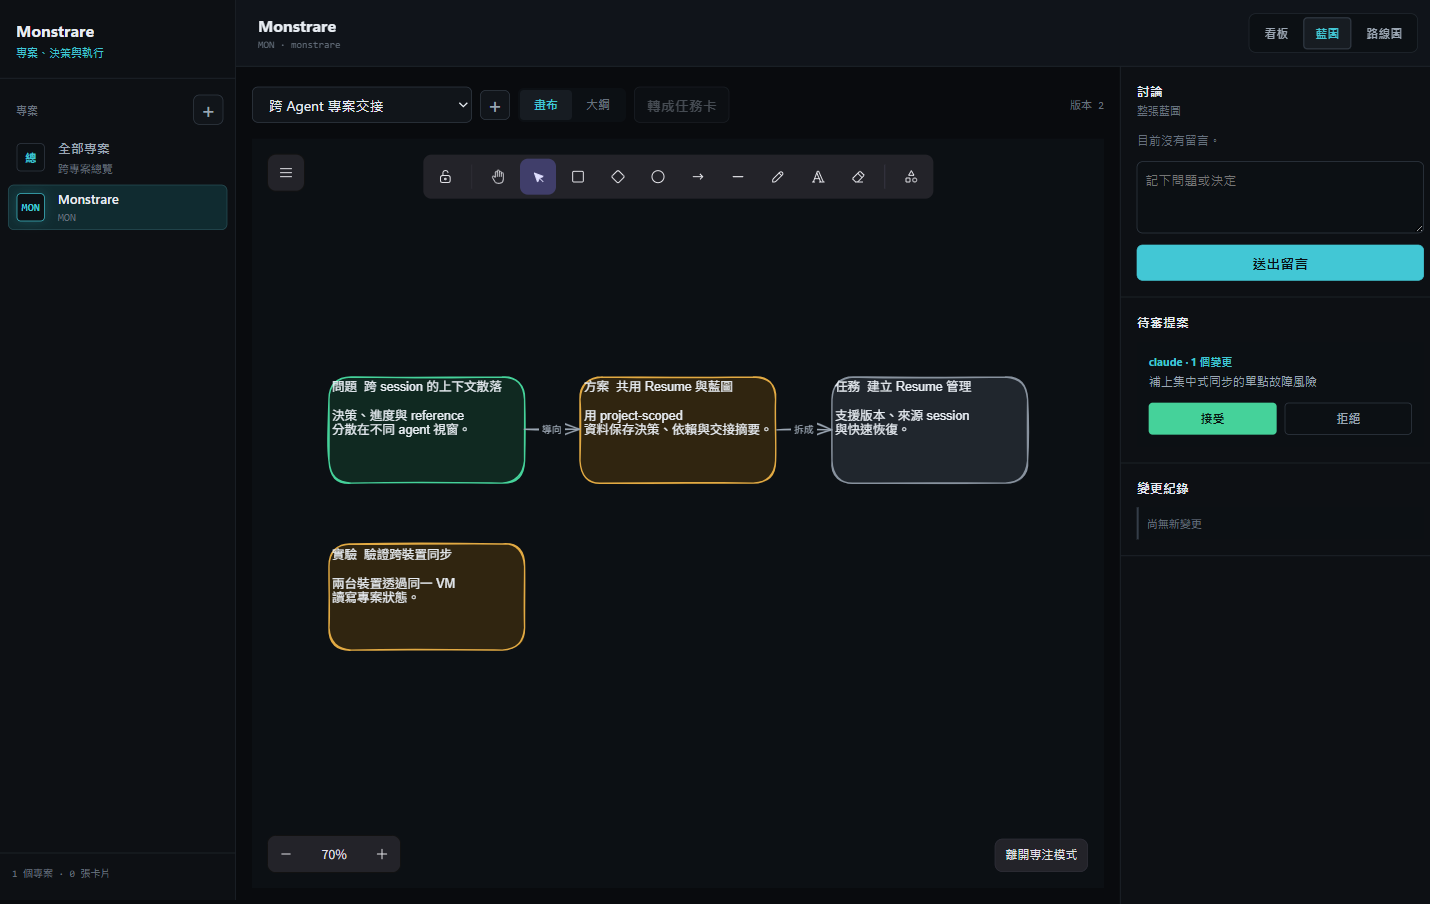
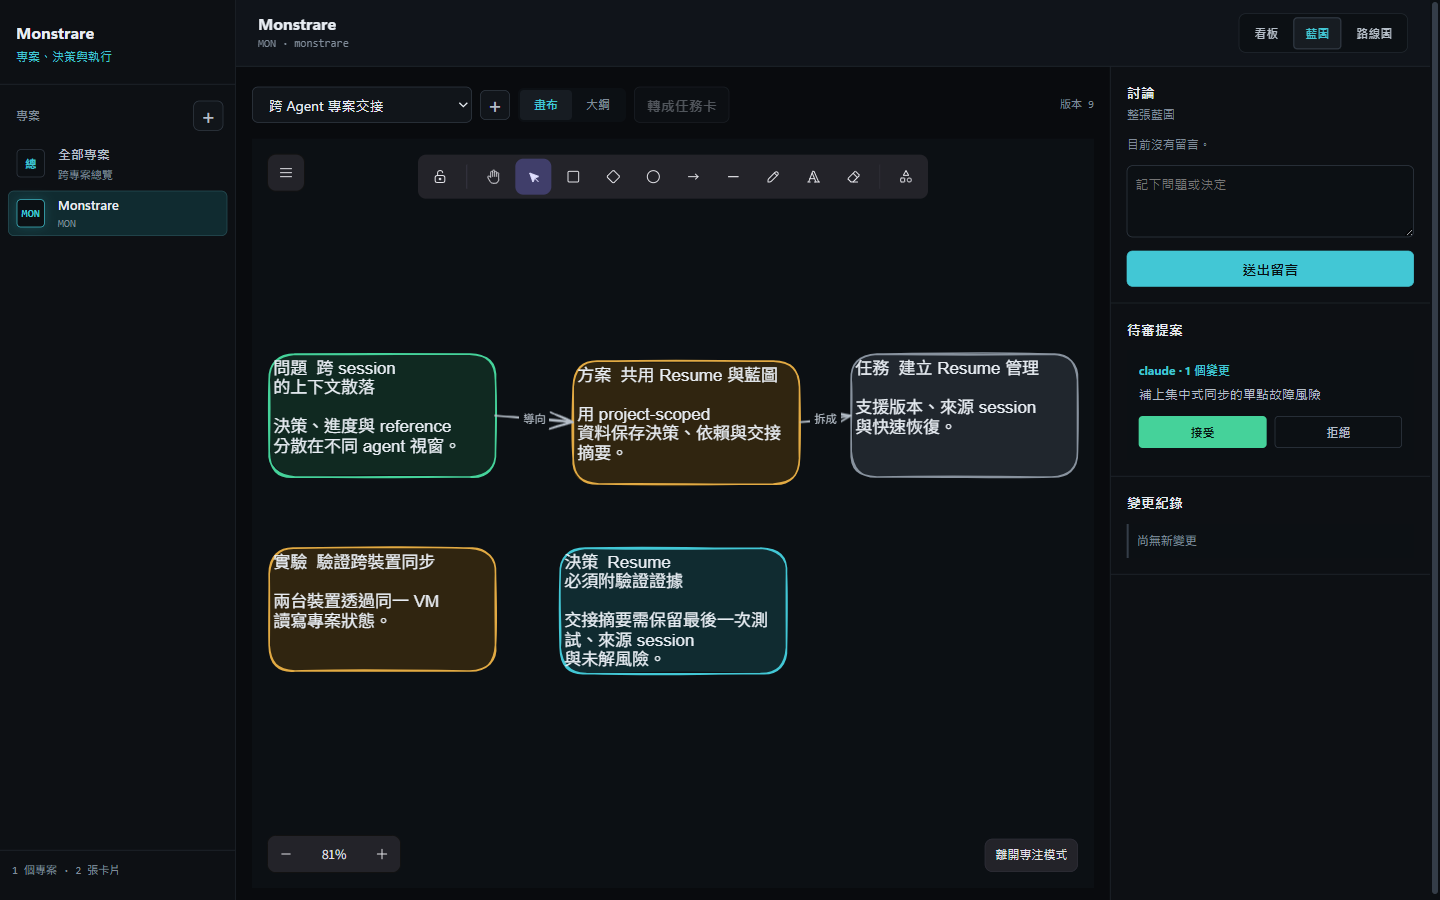
Improve kanban typography readability

diff --git a/tools/kanban/index.html b/tools/kanban/index.html
@@ -12,8 +12,8 @@
     --surface-raised: #171c22;
     --surface-sunken: #0c1014;
     --ink: #e8edf3;
-    --ink-dim: #9ba6b3;
-    --ink-faint: #66717e;
+    --ink-dim: #b5bec8;
+    --ink-faint: #7f8b99;
     --line: #232a32;
     --line-strong: #343d48;
     --accent: #42c7d5;
@@ -29,7 +29,7 @@
     --shadow-card: 0 1px 2px rgba(0, 0, 0, 0.3);
     --shadow-card-hover: 0 8px 24px rgba(0, 0, 0, 0.42), 0 0 0 1px rgba(66, 199, 213, 0.2);
     --shadow-modal: 0 28px 80px rgba(0, 0, 0, 0.62);
-    --font-ui: "Segoe UI Variable Text", "Aptos", "Segoe UI", "PingFang TC", "Microsoft JhengHei", sans-serif;
+    --font-ui: "Segoe UI Variable Text", "Microsoft JhengHei UI", "Microsoft JhengHei", "PingFang TC", "Noto Sans TC", "Segoe UI", sans-serif;
     --font-mono: ui-monospace, SFMono-Regular, "SF Mono", Menlo, Consolas, "Liberation Mono", monospace;
   }
 
@@ -38,10 +38,11 @@
   body {
     font-family: var(--font-ui);
     font-size: 14px;
+    line-height: 1.5;
+    font-synthesis: none;
     color: var(--ink);
     background: var(--paper);
     min-height: 100vh;
-    -webkit-font-smoothing: antialiased;
   }
   .app-shell { min-height: 100vh; display: grid; grid-template-columns: 236px minmax(0, 1fr); }
   .workspace { min-width: 0; }
@@ -61,9 +62,9 @@
   .sidebar { position: sticky; top: 0; height: 100vh; z-index: 30; display: flex; flex-direction: column; background: #0d1014; border-right: 1px solid var(--line); overflow: hidden; }
   .sidebar-brand { padding: 20px 16px 18px; border-bottom: 1px solid var(--line); }
   .brand-name { display: block; font-size: 16px; font-weight: 700; letter-spacing: 0; }
-  .brand-sub { display: block; margin-top: 4px; font-size: 11px; color: var(--accent); letter-spacing: 0; }
+  .brand-sub { display: block; margin-top: 4px; font-size: 12px; color: var(--accent); letter-spacing: 0; }
   .sidebar-section-head { display: flex; align-items: center; justify-content: space-between; padding: 16px 12px 8px 16px; }
-  .sidebar-label { font-size: 11px; font-weight: 700; color: var(--ink-faint); letter-spacing: 0; }
+  .sidebar-label { font-size: 12px; font-weight: 700; color: var(--ink-faint); letter-spacing: 0; }
   .project-nav { flex: 1; padding: 0 8px; overflow-y: auto; display: flex; flex-direction: column; gap: 3px; }
   .project-nav-item { width: 100%; min-height: 42px; border: 1px solid transparent; border-radius: 6px; background: transparent; color: var(--ink-dim); display: grid; grid-template-columns: 32px minmax(0, 1fr); align-items: center; gap: 9px; padding: 5px 8px; text-align: left; }
   .project-nav-item:hover { color: var(--ink); background: var(--surface-raised); }
@@ -74,7 +75,7 @@
   .project-nav-name { display: block; overflow: hidden; text-overflow: ellipsis; white-space: nowrap; font-size: 13px; font-weight: 600; }
   .project-nav-prefix { display: block; margin-top: 4px; font-family: var(--font-mono); font-size: 11px; color: var(--ink-faint); }
   .sidebar-footer { margin-top: auto; padding: 12px; border-top: 1px solid var(--line); }
-  .project-status { display: block; color: var(--ink-faint); font-family: var(--font-mono); font-size: 10px; margin-bottom: 9px; }
+  .project-status { display: block; color: var(--ink-faint); font-family: var(--font-mono); font-size: 11px; margin-bottom: 9px; }
   .project-form { display: flex; flex-direction: column; gap: 6px; padding: 8px; margin: 4px 8px 8px; border: 1px solid var(--line); border-radius: 7px; background: var(--surface-sunken); }
   .project-form input, .auth-control input { width: 100%; height: 32px; border: 1px solid var(--line-strong); border-radius: 5px; background: var(--paper); padding: 0 9px; }
   .project-form .prefix-input { text-transform: uppercase; }
@@ -90,7 +91,7 @@
   .topbar-row1 { min-height: 66px; display: flex; align-items: center; justify-content: space-between; padding: 10px 22px; gap: 16px; }
   .active-context { min-width: 0; }
   .active-project-name { font-size: 16px; font-weight: 700; line-height: 1.25; overflow: hidden; text-overflow: ellipsis; white-space: nowrap; }
-  .active-project-meta { margin-top: 3px; font-family: var(--font-mono); font-size: 10px; color: var(--ink-faint); }
+  .active-project-meta { margin-top: 3px; font-family: var(--font-mono); font-size: 11px; color: var(--ink-faint); }
 
   .view-tabs { display: flex; gap: 3px; background: var(--surface-sunken); border: 1px solid var(--line); border-radius: 7px; padding: 3px; }
   .view-tabs button { border: none; background: transparent; color: var(--ink-dim); font-size: 12px; font-weight: 600; padding: 8px 12px; border-radius: 4px; transition: background-color .15s ease, color .15s ease; }
@@ -100,7 +101,7 @@
   .view.is-active { display: block; }
 
   /* ── pills ── */
-  .pill { display: inline-flex; align-items: center; gap: 4px; font-size: 11px; font-weight: 700; letter-spacing: 0; padding: 2px 8px; border-radius: 999px; white-space: nowrap; }
+  .pill { display: inline-flex; align-items: center; gap: 4px; font-size: 12px; font-weight: 700; letter-spacing: 0; padding: 2px 8px; border-radius: 999px; white-space: nowrap; }
   .risk-low { background: var(--muted-soft); color: var(--muted); }
   .risk-medium { background: var(--warn-soft); color: var(--warn); }
   .risk-high { background: var(--crit-soft); color: var(--crit); }
@@ -123,10 +124,10 @@
   .ticket-card::before { content: ""; position: absolute; left: 0; top: 8px; bottom: 8px; width: 3px; border-radius: 3px; }
   .ticket-card:hover { box-shadow: var(--shadow-card-hover); transform: translateY(-1px); }
   .ticket-card.is-dragging { opacity: 0.4; }
-  .ticket-id { font-size: 10px; color: var(--ink-faint); font-weight: 600; letter-spacing: 0; }
-  .ticket-title { font-size: 14px; font-weight: 600; line-height: 1.5; margin: 4px 0 12px; }
+  .ticket-id { font-size: 11px; color: var(--ink-faint); font-weight: 600; letter-spacing: 0; }
+  .ticket-title { font-size: 15px; font-weight: 600; line-height: 1.5; margin: 4px 0 12px; }
   .ticket-badges { display: flex; flex-wrap: wrap; gap: 5px; margin-bottom: 8px; }
-  .ticket-meta-row { display: flex; align-items: center; justify-content: space-between; font-size: 12px; color: var(--ink-faint); }
+  .ticket-meta-row { display: flex; align-items: center; justify-content: space-between; font-size: 13px; color: var(--ink-faint); }
 
   @media (prefers-reduced-motion: reduce) { .ticket-card, .modal, .modal-overlay { transition: none !important; } }
 
@@ -136,8 +137,8 @@
   .lane.is-drag-over { background: var(--accent-soft); }
   .lane-head { position: sticky; top: 0; padding: 14px 14px 12px; border-bottom: 1px solid var(--line); background: #0c0f13; z-index: 1; }
   .lane-title-row { display: flex; align-items: center; justify-content: space-between; gap: 6px; }
-  .lane-title { font-size: 13px; font-weight: 600; }
-  .lane-gauge { font-size: 11px; font-weight: 700; padding: 1px 7px; border-radius: 999px; background: var(--surface-sunken); color: var(--ink-dim); flex-shrink: 0; }
+  .lane-title { font-size: 14px; font-weight: 600; }
+  .lane-gauge { font-size: 12px; font-weight: 700; padding: 1px 7px; border-radius: 999px; background: var(--surface-sunken); color: var(--ink-dim); flex-shrink: 0; }
   .lane-gauge.is-over { background: var(--crit); color: #fff; }
   .lane-body { padding: 12px; display: flex; flex-direction: column; gap: 10px; flex: 1; }
   .lane-empty { font-size: 12px; color: var(--ink-faint); padding: 12px 4px; }
@@ -255,23 +256,23 @@
   .blueprint-edge-relation { color: var(--warn); }
   .blueprint-inspector { border-left: 1px solid var(--line); background: #0d1014; overflow-y: auto; }
   .blueprint-panel { padding: 16px; border-bottom: 1px solid var(--line); }
-  .blueprint-panel-title { font-size: 13px; line-height: 1.25; }
-  .blueprint-panel-context { margin-top: 4px; color: var(--ink-faint); font-size: 11px; line-height: 1.5; }
+  .blueprint-panel-title { font-size: 14px; line-height: 1.35; }
+  .blueprint-panel-context { margin-top: 4px; color: var(--ink-faint); font-size: 12px; line-height: 1.5; }
   .blueprint-stream-list, .blueprint-discussion-list, .blueprint-proposal-list { margin-top: 12px; display: flex; flex-direction: column; gap: 8px; }
   .blueprint-event { border-left: 2px solid var(--line-strong); padding: 8px; background: var(--surface-sunken); }
   .blueprint-event.is-live { border-left-color: var(--accent); }
-  .blueprint-event-meta { font-family: var(--font-mono); font-size: 11px; color: var(--ink-faint); }
-  .blueprint-event-message { margin-top: 4px; color: var(--ink-dim); font-size: 12px; line-height: 1.5; }
+  .blueprint-event-meta { font-family: var(--font-mono); font-size: 12px; color: var(--ink-faint); }
+  .blueprint-event-message { margin-top: 4px; color: var(--ink-dim); font-size: 13px; line-height: 1.55; }
   .blueprint-empty { position: absolute; inset: 0; display: grid; place-items: center; color: var(--ink-faint); font-size: 13px; }
   .blueprint-discussion { padding: 8px; background: var(--surface-sunken); }
-  .blueprint-discussion-author { font-size: 11px; font-weight: 700; color: var(--ink-dim); }
+  .blueprint-discussion-author { font-size: 12px; font-weight: 700; color: var(--ink-dim); }
   .blueprint-discussion-text { margin-top: 4px; font-size: 12px; line-height: 1.6; color: var(--ink); white-space: pre-wrap; }
   .blueprint-discussion-form { margin-top: 12px; }
   .blueprint-discussion-form textarea { width: 100%; min-height: 72px; resize: vertical; border: 1px solid var(--line-strong); border-radius: 6px; background: var(--surface-sunken); padding: 8px; font-size: 13px; line-height: 1.5; }
   .blueprint-discussion-form .toolbar-btn { width: 100%; margin-top: 8px; }
   .blueprint-proposal { padding: 12px; background: var(--surface-sunken); }
-  .blueprint-proposal-agent { font-size: 11px; font-weight: 700; color: var(--accent); }
-  .blueprint-proposal-message { margin-top: 4px; font-size: 12px; line-height: 1.5; color: var(--ink-dim); }
+  .blueprint-proposal-agent { font-size: 12px; font-weight: 700; color: var(--accent); }
+  .blueprint-proposal-message { margin-top: 4px; font-size: 13px; line-height: 1.55; color: var(--ink-dim); }
   .blueprint-proposal-actions { display: grid; grid-template-columns: 1fr 1fr; gap: 8px; margin-top: 12px; }
   .blueprint-proposal-actions button { height: 32px; border-radius: 4px; font-size: 12px; font-weight: 700; }
   .proposal-accept { border: 0; background: var(--good); color: #07130f; }

diff --git a/tools/kanban/blueprint-canvas.jsx b/tools/kanban/blueprint-canvas.jsx
@@ -35,7 +35,7 @@ const STATUS_COLORS = {
 function defaultLayout(index) {
   const column = index % 3;
   const row = Math.floor(index / 3);
-  return { x: 80 + column * 360, y: 80 + row * 240, w: 280, h: 152 };
+  return { x: 80 + column * 390, y: 80 + row * 260, w: 300, h: 168 };
 }
 
 function nodeElementId(nodeId) {
@@ -51,7 +51,7 @@ function documentToElements(document) {
     const layout = node.layout || defaultLayout(index);
     layoutById.set(node.id, layout);
     const colors = STATUS_COLORS[node.status] || STATUS_COLORS.draft;
-    const body = node.body ? "\n\n" + node.body.slice(0, 180) : "";
+    const body = node.body ? "\n\n" + node.body.slice(0, 120) : "";
     return {
       id: nodeElementId(node.id),
       type: "rectangle",
@@ -67,7 +67,7 @@ function documentToElements(document) {
       roundness: { type: 3 },
       label: {
         text: (TYPE_LABELS[node.type] || node.type) + "  " + node.title + body,
-        fontSize: 18,
+        fontSize: 21,
         fontFamily: 2,
         textAlign: "left",
         verticalAlign: "top",
@@ -87,7 +87,7 @@ function documentToElements(document) {
       x,
       y,
       points: [[0, 0], [to.x - x, to.y + to.h / 2 - y]],
-      strokeColor: "#9ba6b3",
+      strokeColor: "#b5bec8",
       strokeWidth: 2,
       roughness: 1,
       startBinding: { elementId: nodeElementId(edge.from), focus: 0, gap: 8 },
@@ -112,12 +112,19 @@ function BlueprintCanvas() {
 
   function fitScene(nextElements = elements) {
     if (!apiRef.current || !nextElements.length) return;
+    const nodeElements = nextElements.filter(
+      (element) => element.type === "rectangle" && element.id.startsWith("bp_node_"),
+    );
+    const compact = rootElement.clientWidth < 600;
+    const focusElements = compact && nodeElements.length
+      ? nodeElements.slice(0, 1)
+      : nextElements;
     apiRef.current.updateScene({
       appState: { theme: "dark", viewBackgroundColor: "#0c1014", zenModeEnabled: true },
     });
-    apiRef.current.scrollToContent(nextElements, {
+    apiRef.current.scrollToContent(focusElements, {
       fitToViewport: true,
-      viewportZoomFactor: 0.82,
+      viewportZoomFactor: compact ? 0.9 : 0.96,
       animate: false,
     });
   }

diff --git a/ai/context/design-system.md b/ai/context/design-system.md
@@ -17,7 +17,8 @@
 
 - 選定的 style tile：Dark Operations
 - 色彩情緒：接近黑色的中性底色，cyan 作主要互動提示，綠／黃／紅只表達狀態。
-- 字體個性：系統 UI 字體，短標籤清楚、長內容可讀；不使用裝飾性 display font。
+- 字體個性：Segoe UI Variable Text 搭配 Microsoft JhengHei UI 繁中 fallback；
+  不合成缺少的字重，短標籤清楚、長內容可讀。
 - 圓角／陰影傾向：4-8px 小圓角、細邊界；陰影只用在可互動卡片 hover 與 modal。
 - 密度：舒適但可掃讀；Kanban lane 固定 282px，卡片內距 14-17px。
 - 亮／暗模式：暗色模式。
@@ -31,9 +32,9 @@
 | 類別 | Token | 值 | 備註 |
 |---|---|---|---|
 | 色彩 | paper / surface / raised / sunken | `#090b0e` / `#11151a` / `#171c22` / `#0c1014` | 四層中性背景 |
-| 色彩 | ink / ink-dim / ink-faint | `#e8edf3` / `#9ba6b3` / `#66717e` | 三層文字 |
+| 色彩 | ink / ink-dim / ink-faint | `#e8edf3` / `#b5bec8` / `#7f8b99` | 三層文字；暗色底維持可讀對比 |
 | 色彩 | accent / good / warn / crit | `#42c7d5` / `#45d29a` / `#e2aa43` / `#f06870` | 動作與語意狀態 |
-| 字級 | type scale | `10, 11, 12, 13, 16, 18px` | 介面文字，不隨 viewport 縮放 |
+| 字級 | type scale | `11, 12, 13, 14, 15, 16, 18, 21px` | DOM 不低於 11px；canvas node 21px |
 | 字重／行高 | regular / semibold / bold | `400 / 600 / 700`; 內文 `1.5-1.6` | |
 | 間距 | spacing scale | `4, 8, 12, 16, 20, 24, 32px` | 以 4px 為基準 |
 | 圓角 | radius | `4, 6, 8px`; pill `999px` | panel 不做浮動大圓角 |

diff --git a/ai/artifacts/Blueprint 工作區/verification/blueprint-workbench.md b/ai/artifacts/Blueprint 工作區/verification/blueprint-workbench.md
@@ -10,10 +10,10 @@
 
 | 指令 | 結果 | 備註 |
 |---|---|---|
-| `npm test` | 通過，30/30 | Windows Node 24.12；contract / API / frontend checks |
+| `npm test` | 通過，32/32 | Windows contract / API / typography checks |
 | `npm audit --audit-level=moderate` | 通過 | 0 vulnerabilities |
-| WSL Ubuntu `npm ci && npm test` | 通過，30/30 | 隔離 Linux node_modules，Node 24.12 |
-| Playwright browser flow | 通過 | 留言、accept proposal、materialize、claim；console 0 errors |
+| WSL Ubuntu `npm test` | 通過，32/32 | 隔離 Linux node_modules，Node 24.12 |
+| Playwright browser flow | 通過 | desktop/mobile typography 與 overflow；console 0 errors |
 
 ## UI 證據
 
@@ -29,6 +29,8 @@
 | Excalidraw dark canvas 被 library filter 反相 | 高 | 已以 scoped CSS 修正 |
 | 未綁定的 edge 初始落在左上角 | 高 | 已改由 node layout 計算端點 |
 | 手機 toolbar 與 inspector 原本過密 | 中 | 已於 760px breakpoint 重排 |
+| Canvas 全圖 fit 使 mobile 文字縮成不可讀尺寸 | 高 | mobile 改為單節點初始 focus |
+| 10px metadata 與低對比 faint text 顯得模糊 | 中 | 最低 11px 並提高 dim/faint 對比 |
 
 ## 殘留風險
 

diff --git a/ai/artifacts/Blueprint 工作區/screen-spec-藍圖工作區.md b/ai/artifacts/Blueprint 工作區/screen-spec-藍圖工作區.md
@@ -28,7 +28,7 @@
 | 錯誤 | toast 顯示 API 錯誤，不覆蓋工作內容 | 使用 server 回傳訊息 | API / Browser |
 | 停用 | 未選 task/experiment 時停用「轉成任務卡」 | 不額外顯示教學文字 | Browser |
 | 權限不足 | 寫入 API 回 `401`，UI 顯示錯誤 toast | `缺少或無效的 bearer token` | API test |
-| 行動裝置版 | project rail 可橫向切換；toolbar 44px；inspector 下移 | 與桌面共用文案 | 390x844 截圖 |
+| 行動裝置版 | project rail 可橫向切換；toolbar 44px；canvas 先聚焦單一節點；inspector 下移 | 與桌面共用文案 | 390x844 截圖 |
 
 ## 互動
 
@@ -52,5 +52,6 @@
 
 - 1440px 桌面可同時看到 project nav、canvas 與 inspector。
 - 390px 手機沒有橫向頁面 overflow；project rail、主要 tabs 與 Blueprint toolbar 不重疊。
+- Canvas desktop 初始 framing 約 80% zoom；mobile 優先讓單一節點文字可讀，不強制塞入全圖。
 - Kanban lane 在桌面固定 282px，手機為 86vw，卡片標題與 metadata 保有間距。
 - 介面使用自然、任務導向的繁體中文，不放模板式英文 eyebrow 或功能自述。
